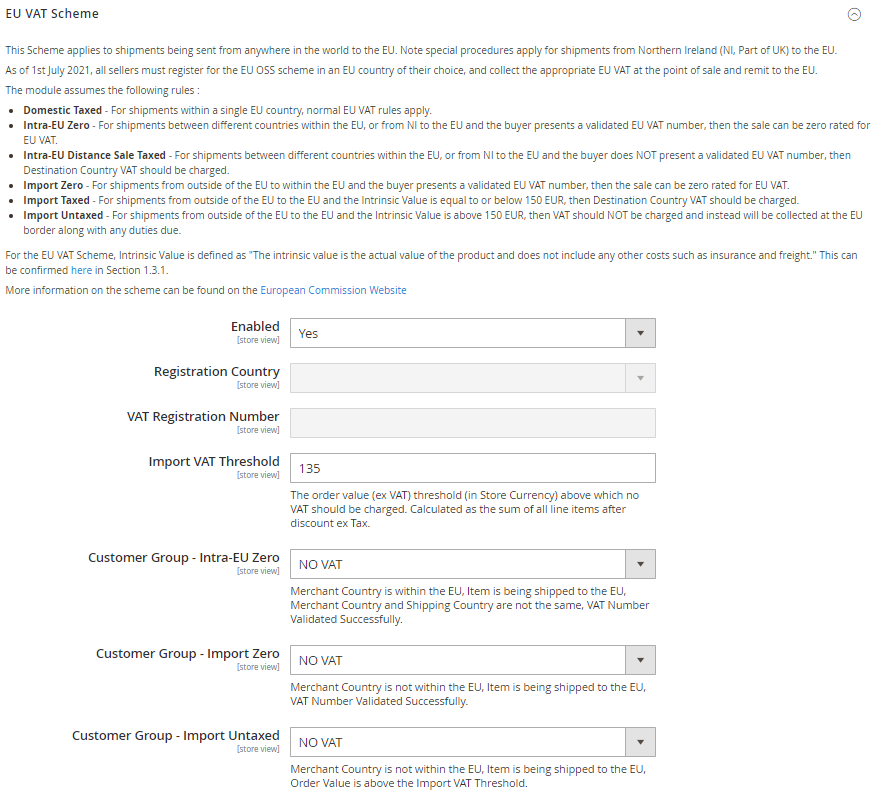
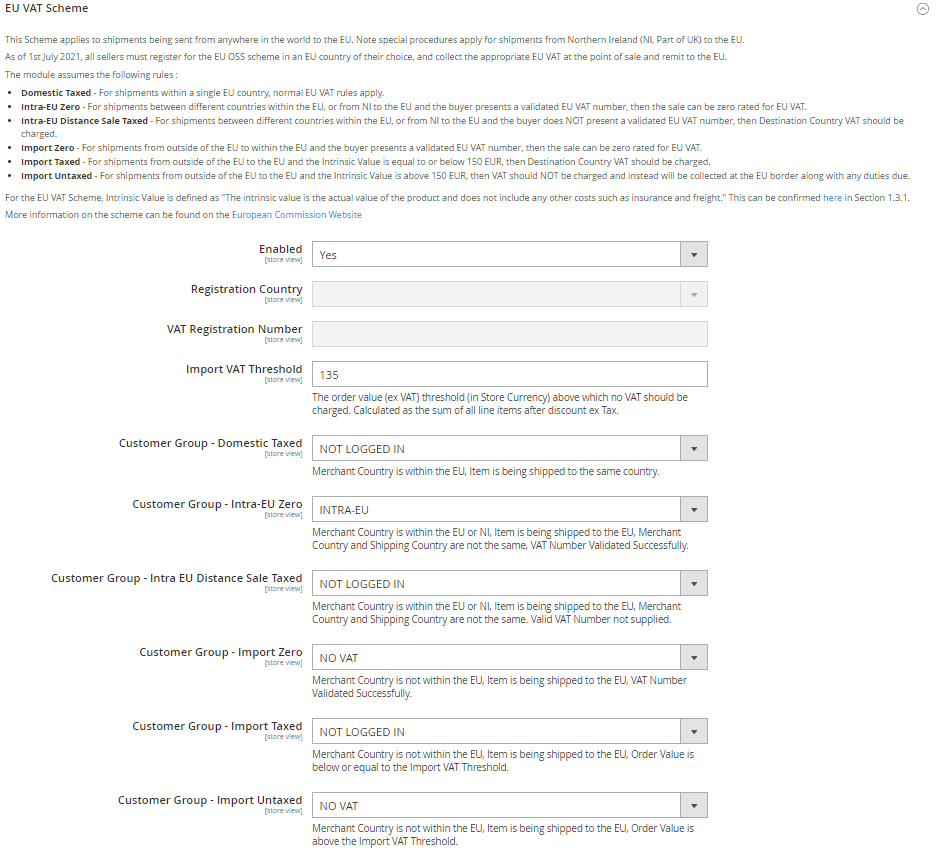
Added additional groups

Changed region(s): [[0.0, 0.0, 0.9818, 0.9864], [0.9511, 0.0, 1.0, 0.0308]]

diff --git a/Model/Validator/EuVat.php b/Model/Validator/EuVat.php
@@ -54,7 +54,7 @@ class EuVat extends AbstractValidator
             $this->isCountryInEU($customerCountryCode) &&
             ($this->getOrderTotal($quote) > $importThreshold)) {
             return $this->scopeConfig->getValue(
-                "autocustomergroup/" . self::CODE . "/importabovethreshold",
+                "autocustomergroup/" . self::CODE . "/importuntaxed",
                 ScopeInterface::SCOPE_STORE,
                 $store
             );
@@ -67,7 +67,7 @@ class EuVat extends AbstractValidator
             $vatValidationResult->getRequestSuccess() &&
             $vatValidationResult->getIsValid()) {
             return $this->scopeConfig->getValue(
-                "autocustomergroup/" . self::CODE . "/validintraeu",
+                "autocustomergroup/" . self::CODE . "/intraeuzero",
                 ScopeInterface::SCOPE_STORE,
                 $store
             );
@@ -79,7 +79,7 @@ class EuVat extends AbstractValidator
             $vatValidationResult->getRequestSuccess() &&
             $vatValidationResult->getIsValid()) {
             return $this->scopeConfig->getValue(
-                "autocustomergroup/" . self::CODE . "/validimport",
+                "autocustomergroup/" . self::CODE . "/importzero",
                 ScopeInterface::SCOPE_STORE,
                 $store
             );

diff --git a/Model/Validator/UkVat.php b/Model/Validator/UkVat.php
@@ -112,7 +112,7 @@ class UkVat extends AbstractValidator
             $this->checkCountry($customerCountryCode) &&
             ($this->getOrderTotal($quote) > $importThreshold)) {
             return $this->scopeConfig->getValue(
-                "autocustomergroup/" . self::CODE . "/importabovethreshold",
+                "autocustomergroup/" . self::CODE . "/importuntaxed",
                 ScopeInterface::SCOPE_STORE,
                 $store
             );
@@ -124,7 +124,7 @@ class UkVat extends AbstractValidator
             $vatValidationResult->getRequestSuccess() &&
             $vatValidationResult->getIsValid()) {
             return $this->scopeConfig->getValue(
-                "autocustomergroup/" . self::CODE . "/validimport",
+                "autocustomergroup/" . self::CODE . "/importzero",
                 ScopeInterface::SCOPE_STORE,
                 $store
             );
